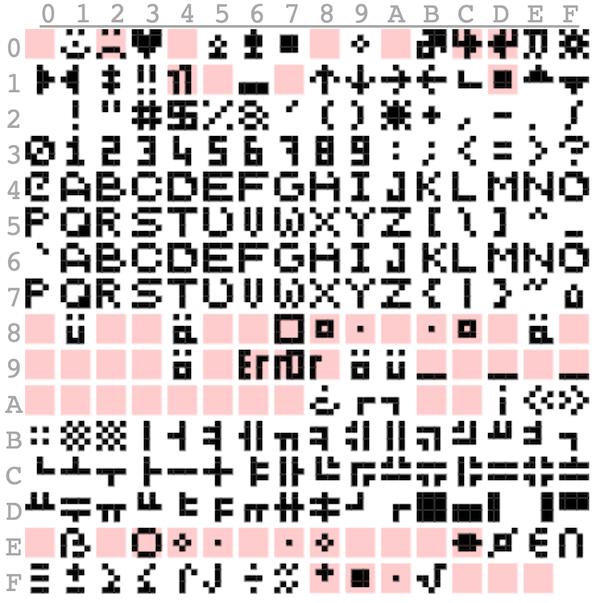
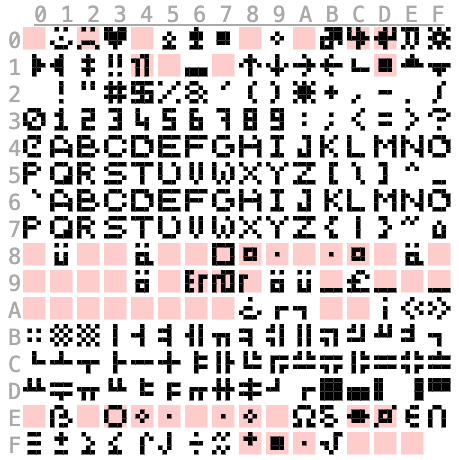
add 3 new chars: 0x9c, 0xEA, 0xEB (CP437 codepoints) and update all files; switch to use Python 3.8+

diff --git a/sample.html b/sample.html
@@ -221,7 +221,6 @@
     different_from_standard_map[0x97] = true;
     different_from_standard_map[0x98] = true;
     different_from_standard_map[0x9b] = true;
-    different_from_standard_map[0x9c] = true;
     different_from_standard_map[0x9d] = true;
     different_from_standard_map[0x9e] = true;
     different_from_standard_map[0x9f] = true;
@@ -244,16 +243,15 @@
     different_from_standard_map[0xe7] = true;
     different_from_standard_map[0xe8] = true;
     different_from_standard_map[0xe9] = true;
-    different_from_standard_map[0xea] = true;
-    different_from_standard_map[0xeb] = true;
     different_from_standard_map[0xec] = true;
+    different_from_standard_map[0xed] = true;
     different_from_standard_map[0xf8] = true;
     different_from_standard_map[0xf9] = true;
     different_from_standard_map[0xfa] = true;
     different_from_standard_map[0xfc] = true;
     different_from_standard_map[0xfd] = true;
     different_from_standard_map[0xfe] = true;
-    
+
     for (var c = 0; c < nitram_micro_mono_CP437.length / 5; c++) {
       var dx = (c % 16) * 6;
       var dy = 6 * Math.floor(c / 16);

diff --git a/sources/nitram_micro_mono.js b/sources/nitram_micro_mono.js
@@ -155,7 +155,7 @@ var nitram_micro_mono_CP437 = [
   10, 0, 14, 10, 14,
   10, 0, 10, 10, 14,
   0, 0, 0, 0, 31,
-  0, 0, 0, 0, 0,
+  12, 18, 7, 2, 31,
   0, 0, 0, 0, 31,
   0, 0, 0, 0, 0,
   0, 0, 0, 0, 31,
@@ -233,8 +233,8 @@ var nitram_micro_mono_CP437 = [
   0, 0, 4, 0, 0,
   0, 4, 10, 4, 0,
   0, 0, 0, 0, 0,
-  0, 0, 0, 0, 0,
-  0, 0, 0, 0, 0,
+  14, 17, 17, 10, 27,
+  7, 1, 6, 9, 6,
   0, 14, 31, 14, 0,
   16, 14, 10, 14, 1,
   12, 2, 14, 2, 12,

diff --git a/convert2bdf.py b/convert2bdf.py
@@ -1,7 +1,9 @@
 #!/usr/bin/python
 # -*- coding: utf-8 -*-
-
 from sources.nitram_micro_mono import nitram_micro_mono_CP437
+
+# DANGER: please keep track, on what the single source of truth is, before enabling this!
+UPDATE_DAT_FILE_FROM_PYTHON = False
 
 
 class BdfCharacter:
@@ -17,24 +19,26 @@ class BdfCharacter:
             'DWIDTH 5 0',
             'BBX 5 5 0 0',
             'BITMAP',
-            '%.2x' % self.reverse_bit_order(self.bitmap_array[0]),
-            '%.2x' % self.reverse_bit_order(self.bitmap_array[1]),
-            '%.2x' % self.reverse_bit_order(self.bitmap_array[2]),
-            '%.2x' % self.reverse_bit_order(self.bitmap_array[3]),
-            '%.2x' % self.reverse_bit_order(self.bitmap_array[4]),
+            ('%.2x' % self.reverse_bit_order(self.bitmap_array[0])).upper(),
+            ('%.2x' % self.reverse_bit_order(self.bitmap_array[1])).upper(),
+            ('%.2x' % self.reverse_bit_order(self.bitmap_array[2])).upper(),
+            ('%.2x' % self.reverse_bit_order(self.bitmap_array[3])).upper(),
+            ('%.2x' % self.reverse_bit_order(self.bitmap_array[4])).upper(),
             'ENDCHAR'
         ]
 
-    def reverse_bit_order(self, byte):
+    @staticmethod
+    def reverse_bit_order(byte):
         result = 0
-        for i in xrange(8):
-            if (byte >> i) & 1: result |= 1 << (8 - 1 - i)
+        for i in range(8):
+            if (byte >> i) & 1:
+                result |= 1 << (8 - 1 - i)
         return result
 
 
 class BdfWriter:
     __BDF_ENCODING = 'ASCII'
-    __BDF_NEW_LINE_SEPARATOR = str('\r\n'.encode(encoding=__BDF_ENCODING))
+    __BDF_NEW_LINE_SEPARATOR = '\r\n'
     __BDF_START_FONT = [
         'STARTFONT 2.2',
         'COMMENT A monospaced micro font. Uppercase chars only.',
@@ -52,7 +56,7 @@ class BdfWriter:
     def __init__(self, file_name):
         self.__chars = []
         self.data = []
-        self.bdf_file = file(file_name, "w")
+        self.bdf_file = open(file_name, "w")
 
     def add_char(self, bdf_character):
         self.__chars.append(bdf_character)
@@ -86,16 +90,17 @@ class BdfWriter:
 
 
 def create_unicode_char(idx):
-    unicode_char = unicode(chr(idx), encoding='CP437', errors='strict')
+    unicode_char = bytearray([idx]).decode(encoding='CP437', errors='strict')[0]
     uni_code_point = ord(unicode_char)
-    print "[DEBUG] idx=%.2x --> (uni)codepoint=%.4x" % (idx, uni_code_point)
+    print("[DEBUG] idx=%.2x --> (uni)codepoint=%.4x" % (idx, uni_code_point))
     return BdfCharacter(uni_code_point, nitram_micro_mono_CP437[5 * idx:5 * idx + 5])
 
+
 def create_cp1252_char(idx):
-    unicode_char = unicode(chr(idx), encoding='CP437', errors='strict')
+    unicode_char = bytearray([idx]).decode(encoding='CP437', errors='strict')[0]
     cp1252_char = unicode_char.encode(encoding='CP1252', errors='strict')
     cp1252_code_point = ord(cp1252_char)
-    print "[DEBUG] idx=%.2x --> CP1252 codepoint=%.2x" % (idx, cp1252_code_point)
+    print("[DEBUG] idx=%.2x --> CP1252 codepoint=%.2x" % (idx, cp1252_code_point))
     return BdfCharacter(cp1252_code_point, nitram_micro_mono_CP437[5 * idx:5 * idx + 5])
 
 
@@ -105,13 +110,21 @@ def is_char_defined(idx):
         0x04,  # empty
         0x08,  # empty
         0x0A,  # empty
+        0x0C,  # wrong bitmap
+        0x0D,  # wrong bitmap
         0x17,  # empty
+        0x1D,  # wrong bitmap
         0x80,  # empty
         0x82,  # empty
         0x83,  # empty
         0x85,  # empty
         0x86,  # empty
+        0x87,  # wrong bitmap
+        0x88,  # wrong bitmap
+        0x89,  # wrong bitmap
         0x8A,  # empty
+        0x8B,  # wrong bitmap
+        0x8C,  # wrong bitmap
         0x8D,  # empty
         0x8F,  # empty
         0x90,  # empty
@@ -122,8 +135,10 @@ def is_char_defined(idx):
         0x96,  # wrong bitmap
         0x97,  # wrong bitmap
         0x98,  # wrong bitmap
-        0x9C,  # empty
+        0x9B,  # wrong bitmap
+        0x9D,  # wrong bitmap
         0x9E,  # empty
+        0x9F,  # wrong bitmap
         0xA0,  # empty
         0xA1,  # empty
         0xA2,  # empty
@@ -136,48 +151,35 @@ def is_char_defined(idx):
         0xAC,  # empty
         0xE0,  # empty
         0xE2,  # empty
+        0xE3,  # wrong bitmap
+        0xE4,  # wrong bitmap
+        0xE5,  # wrong bitmap
         0xE6,  # empty
+        0xE7,  # wrong bitmap
+        0xE8,  # wrong bitmap
         0xE9,  # empty
-        0xEA,  # empty
-        0xEB,  # empty
+        0xEC,  # wrong bitmap
+        0xED,  # wrong bitmap
+        0xF8,  # wrong bitmap
         0xFC,  # empty
         0xFD,  # empty
         0xFE,  # empty
         0xFF,  # empty
-        0x0C,  # wrong bitmap
-        0x0D,  # wrong bitmap
-        0x1D,  # wrong bitmap
-        0x87,  # wrong bitmap
-        0x88,  # wrong bitmap
-        0x89,  # wrong bitmap
-        0x8B,  # wrong bitmap
-        0x8C,  # wrong bitmap
-        0x9B,  # wrong bitmap
-        0x9D,  # wrong bitmap
-        0x9F,  # wrong bitmap
-        0xE3,  # wrong bitmap
-        0xE4,  # wrong bitmap
-        0xE5,  # wrong bitmap
-        0xE7,  # wrong bitmap
-        0xE8,  # wrong bitmap
-        0xEC,  # wrong bitmap
-        0xF8,  # wrong bitmap
-
     ]
     return idx not in black_list
 
 
 def is_char_available_in_cp1252(idx):
-    unicode_char = unicode(chr(idx), encoding='CP437', errors='strict')
+    unicode_char = bytearray([idx]).decode(encoding='CP437', errors='strict')[0]
     cp1252_char = unicode_char.encode(encoding='CP1252', errors='ignore')
     return len(cp1252_char)
 
 
 def create_unicode_BDF_file():
-    print "[INFO] create nitram-micro-mono-unicode.bdf ..."
+    print("[INFO] create nitram-micro-mono-unicode.bdf ...")
     bdf_writer = BdfWriter('nitram-micro-mono-unicode.bdf')
     bdf_writer.write_header()
-    for i in xrange(len(nitram_micro_mono_CP437) / 5):
+    for i in range(int(len(nitram_micro_mono_CP437) / 5)):
         if is_char_defined(i):
             bdf_writer.add_char(create_unicode_char(i))
     bdf_writer.write_chars()
@@ -185,16 +187,27 @@ def create_unicode_BDF_file():
 
 
 def create_CP1252_BDF_file():
-    print "[INFO] create nitram-micro-mono-cp1252.bdf ..."
+    print("[INFO] create nitram-micro-mono-cp1252.bdf ...")
     bdf_writer = BdfWriter('nitram-micro-mono-cp1252.bdf')
     bdf_writer.write_header()
-    for i in xrange(len(nitram_micro_mono_CP437) / 5):
+    for i in range(int(len(nitram_micro_mono_CP437) / 5)):
         if is_char_defined(i) and is_char_available_in_cp1252(i):
             bdf_writer.add_char(create_cp1252_char(i))
     bdf_writer.write_chars()
     bdf_writer.close()
 
 
+def update_DAT_file():
+    print("[INFO] create nitram_micro_mono.dat ...")
+    all_bytes = []
+    for b in nitram_micro_mono_CP437:
+        all_bytes.append(b)
+    with open('nitram_micro_mono.dat', 'wb') as f:
+        f.write(bytearray(all_bytes))
+
+
 if __name__ == '__main__':
     create_unicode_BDF_file()
     create_CP1252_BDF_file()
+    if UPDATE_DAT_FILE_FROM_PYTHON:
+        update_DAT_file()

diff --git a/sources/nitram_micro_mono.java b/sources/nitram_micro_mono.java
@@ -158,7 +158,7 @@ public class nitram_micro_mono {
           10, 0, 14, 10, 14,
           10, 0, 10, 10, 14,
           0, 0, 0, 0, 31,
-          0, 0, 0, 0, 0,
+          12, 18, 7, 2, 31,
           0, 0, 0, 0, 31,
           0, 0, 0, 0, 0,
           0, 0, 0, 0, 31,
@@ -236,8 +236,8 @@ public class nitram_micro_mono {
           0, 0, 4, 0, 0,
           0, 4, 10, 4, 0,
           0, 0, 0, 0, 0,
-          0, 0, 0, 0, 0,
-          0, 0, 0, 0, 0,
+          14, 17, 17, 10, 27,
+          7, 1, 6, 9, 6,
           0, 14, 31, 14, 0,
           16, 14, 10, 14, 1,
           12, 2, 14, 2, 12,

diff --git a/sources/nitram_micro_mono.cs b/sources/nitram_micro_mono.cs
@@ -158,7 +158,7 @@ public class nitram_micro_mono {
     10, 0, 14, 10, 14,
     10, 0, 10, 10, 14,
     0, 0, 0, 0, 31,
-    0, 0, 0, 0, 0,
+    12, 18, 7, 2, 31,
     0, 0, 0, 0, 31,
     0, 0, 0, 0, 0,
     0, 0, 0, 0, 31,
@@ -236,8 +236,8 @@ public class nitram_micro_mono {
     0, 0, 4, 0, 0,
     0, 4, 10, 4, 0,
     0, 0, 0, 0, 0,
-    0, 0, 0, 0, 0,
-    0, 0, 0, 0, 0,
+    14, 17, 17, 10, 27,
+    7, 1, 6, 9, 6,
     0, 14, 31, 14, 0,
     16, 14, 10, 14, 1,
     12, 2, 14, 2, 12,

diff --git a/sources/nitram_micro_mono.py b/sources/nitram_micro_mono.py
@@ -158,7 +158,7 @@ nitram_micro_mono_CP437 = [
     10, 0, 14, 10, 14,
     10, 0, 10, 10, 14,
     0, 0, 0, 0, 31,
-    0, 0, 0, 0, 0,
+    12, 18, 7, 2, 31,
     0, 0, 0, 0, 31,
     0, 0, 0, 0, 0,
     0, 0, 0, 0, 31,
@@ -236,8 +236,8 @@ nitram_micro_mono_CP437 = [
     0, 0, 4, 0, 0,
     0, 4, 10, 4, 0,
     0, 0, 0, 0, 0,
-    0, 0, 0, 0, 0,
-    0, 0, 0, 0, 0,
+    14, 17, 17, 10, 27,
+    7, 1, 6, 9, 6,
     0, 14, 31, 14, 0,
     16, 14, 10, 14, 1,
     12, 2, 14, 2, 12,

diff --git a/README.md b/README.md
@@ -5,18 +5,18 @@ A custom pixel/bitmap based font which only needs 5x5 pixel per character.
 I've used it in some older projects, back in the MS-DOS days ...
 Remember when your screen resolution was only 320x200 pixel in total ;-)
 
-![Sample: The quick brown fox jumps over the lazy dog](/the_quick_brown_fox_jumps_over_the_lazy_dog.png?raw=true)
+![Sample: The quick brown fox jumps over the lazy dog](./the_quick_brown_fox_jumps_over_the_lazy_dog.png?raw=true)
 
 It's source is in [CP437](https://en.wikipedia.org/wiki/Code_page_437)
 code page and suitable for drawing [ASCII art](https://en.wikipedia.org/wiki/ASCII_art) ;-)
 
-![Sample: all characters](/sample.png?raw=true)
+![Sample: all characters](./sample.png?raw=true)
 
 ### Difference to the CP 437 standard
 
 Non-standard characters are highlighted in red.
 
-![Sample: all characters](/standard_difference.png?raw=true)
+![Sample: all characters](./standard_difference.png?raw=true)
 
 ## License
 
@@ -87,7 +87,7 @@ But, some converter tools don't accept this "-1" placeholder.
 
 ### BDF itself
 
-Using gbdfed and python 2.7+
+Using gbdfed and python 3.8+
 
 1. ```python convert2bdf.py```
 2. ```gbdfed nitram-micro-mono-cp1252.bdf``` -- just open and save again ... applies some optimizations
@@ -99,7 +99,7 @@ Using https://github.com/koron/bdf2ttf.git
 
 **This is a known issue.**
 I've tried a couple of times to use it, but without success yet.
-At least it doesnt crash, but the convered .TTF file is not showing anything.
+At least it doesn't crash, but the converted .TTF file is not showing anything.
 
 1. ```bdf2ttf nitram-micro-mono-cp1252.ttf nitram-micro-mono.ttf.ini nitram-micro-mono-cp1252.bdf```
 
